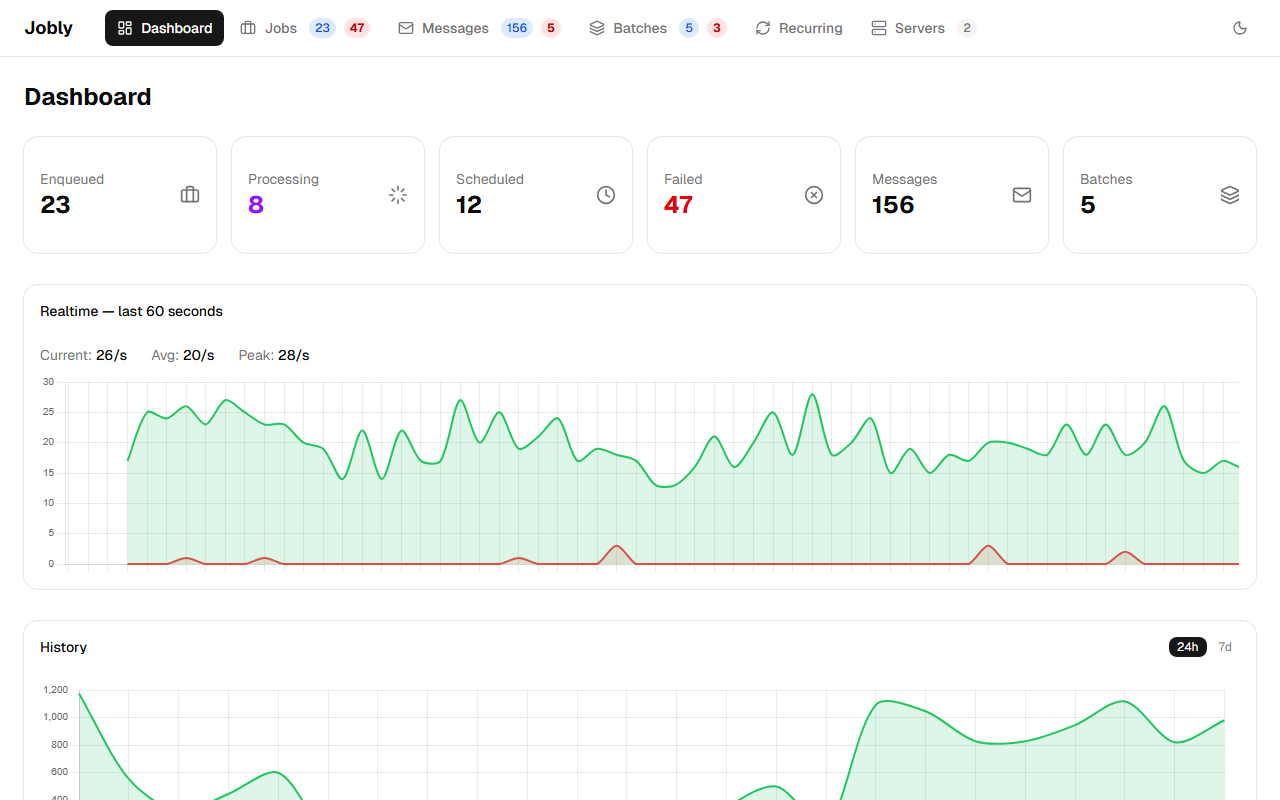
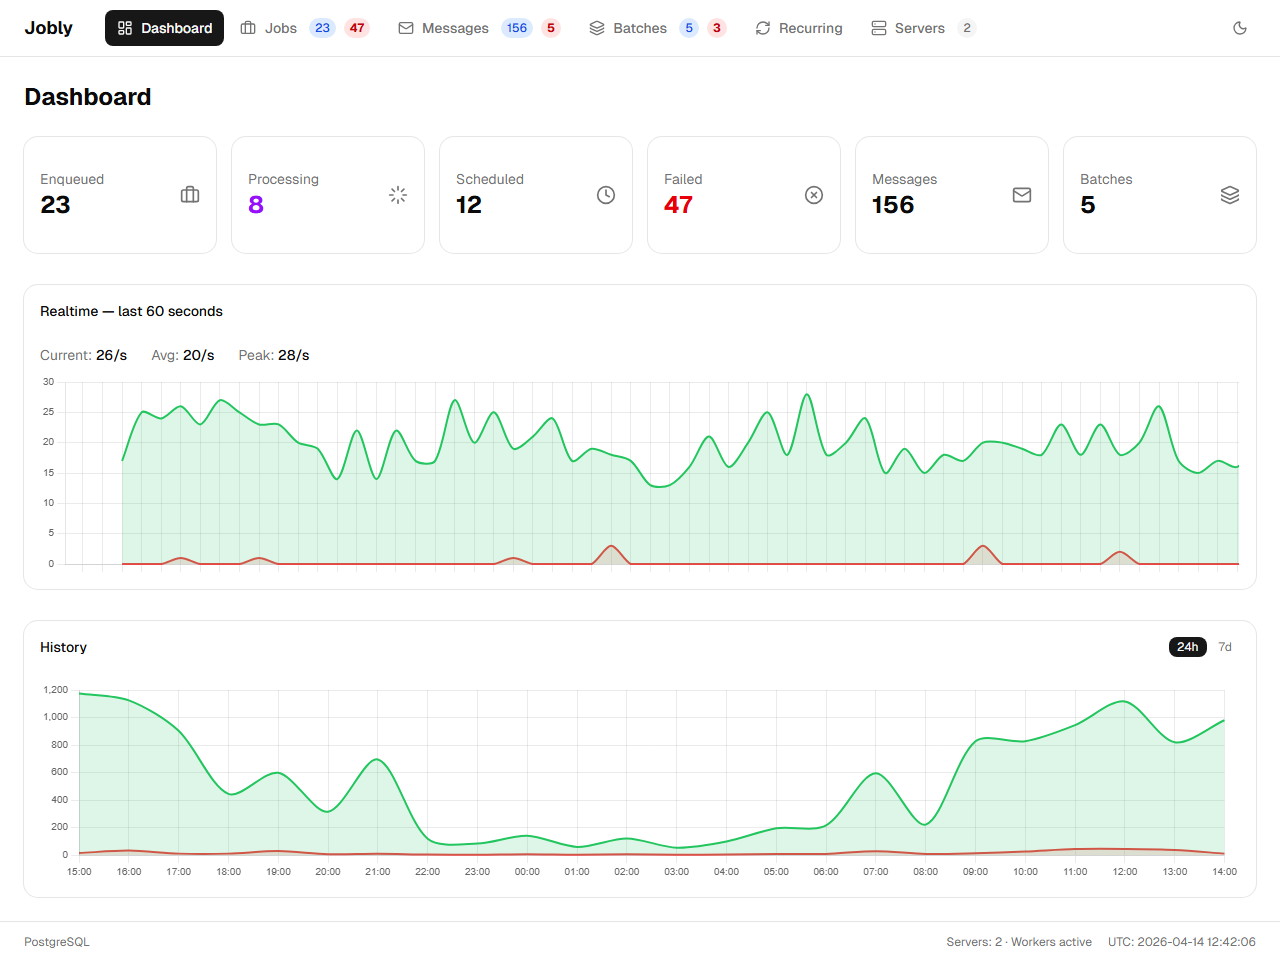
Merge pull request #105 from moberghr/docs/trace-ui
Rename Dashboard docs to UI, add Trace page, fix screenshot

Pull request: Rename Dashboard docs to UI, add Trace page, fix screenshot
## Summary

- **Rename Dashboard → UI**: Moved `website/docs/dashboard/` to `website/docs/ui/` and updated sidebar label to "UI"
- **Add Trace page**: New `website/docs/ui/trace.md` with DAG visualization screenshots (already existed in static)
- **Fix dashboard screenshot**: Changed screenshot test to use `fullPage: true` for dashboard, regenerated both light and dark screenshots showing the complete page
- **Homepage motto**: Added "It gets the job done." to docs front page

## Test plan

- [x] `npx docusaurus build` passes with `onBrokenLinks: 'throw'` — no broken references
- [x] Playwright screenshot tests pass (`npx playwright test --grep 01-dashboard`)
- [x] Visual verification: dashboard screenshot shows full page including History chart
- [x] Visual verification: Trace page renders correctly with screenshot
- [x] Visual verification: homepage shows motto

🤖 Generated with [Claude Code](https://claude.com/claude-code)

diff --git a/website/src/pages/index.tsx b/website/src/pages/index.tsx
@@ -8,7 +8,10 @@ function Hero() {
     <header style={{padding: '4rem 0', textAlign: 'center'}}>
       <div className="container">
         <h1 style={{fontSize: '3rem'}}>{siteConfig.title}</h1>
-        <p style={{fontSize: '1.25rem', color: 'var(--ifm-color-secondary-darkest)'}}>
+        <p style={{fontSize: '1.25rem', fontStyle: 'italic', color: 'var(--ifm-color-secondary-darkest)'}}>
+          It gets the job done.
+        </p>
+        <p style={{fontSize: '1.1rem', color: 'var(--ifm-color-secondary-darkest)'}}>
           {siteConfig.tagline}
         </p>
         <div style={{marginTop: '2rem', display: 'flex', gap: '1rem', justifyContent: 'center'}}>

diff --git a/src/ui/e2e/screenshots.spec.ts b/src/ui/e2e/screenshots.spec.ts
@@ -6,7 +6,7 @@ const traceIdForUrl = DEMO_IDS.traceId.replace(/-/g, '');
 const SCREENSHOTS_DIR = '../../website/static/img/screenshots';
 
 const pages = [
-  { name: '01-dashboard', path: '/' },
+  { name: '01-dashboard', path: '/', fullPage: true },
   { name: '02-jobs-failed', path: '/jobs/failed' },
   { name: '03-job-detail-trace', path: `/detail/${DEMO_IDS.completedJobWithTrace}` },
   { name: '04-jobs-completed', path: '/jobs/completed' },
@@ -61,7 +61,7 @@ for (const pg of pages) {
 
       await page.screenshot({
         path: `${SCREENSHOTS_DIR}/${pg.name}${suffix}.png`,
-        fullPage: false,
+        fullPage: pg.fullPage ?? false,
       });
     });
   }

diff --git a/website/docusaurus.config.ts b/website/docusaurus.config.ts
@@ -91,7 +91,7 @@ const config: Config = {
           items: [
             { label: 'Getting Started', to: '/docs/getting-started' },
             { label: 'Patterns', to: '/docs/patterns' },
-            { label: 'Dashboard', to: '/docs/dashboard/overview' },
+            { label: 'UI', to: '/docs/ui/overview' },
             { label: 'Releases', to: '/docs/releases' },
           ],
         },

diff --git a/website/docs/ui/trace.md b/website/docs/ui/trace.md
@@ -1,0 +1,17 @@
+---
+sidebar_position: 8
+---
+
+# Trace
+
+Click the trace link on any job detail page to open the full trace visualization.
+
+The trace page renders a directed acyclic graph (DAG) of all jobs sharing a `TraceId`. Each node shows the job type and current state. Edges show the spawned-by relationship — who created whom. The legend distinguishes Jobs, Messages, and Batches.
+
+Click any node to navigate to that job's detail page.
+
+For background on how tracing works, see [Job Tracing](/docs/features/tracing).
+
+import Screenshot from '@site/src/components/Screenshot';
+
+<Screenshot light="/img/screenshots/12-trace.png" dark="/img/screenshots/12-trace-dark.png" alt="Trace visualization" />